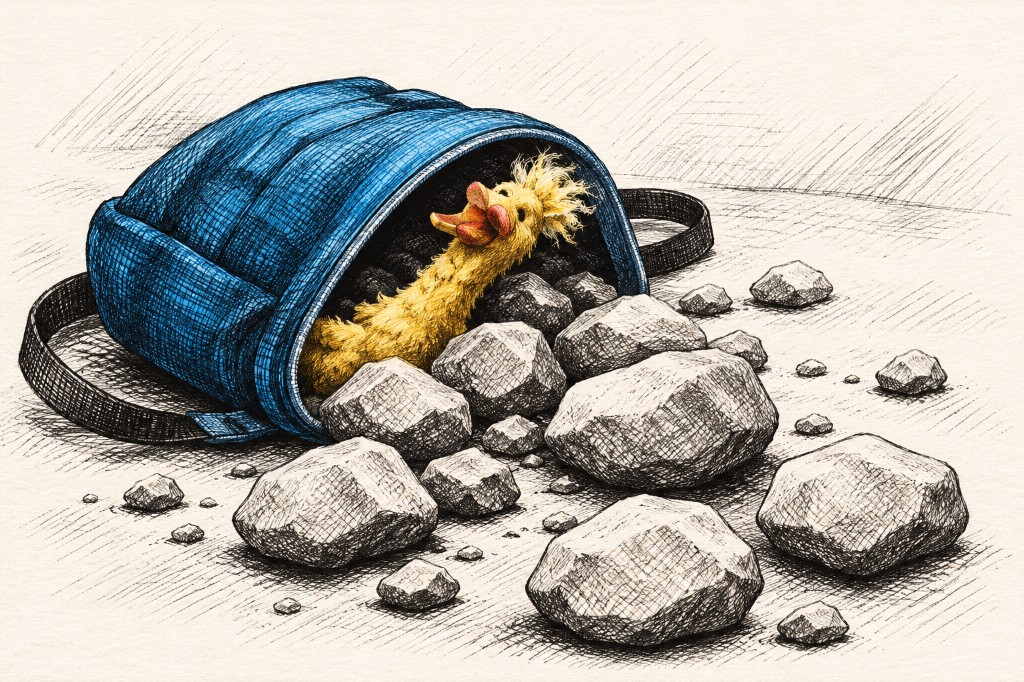
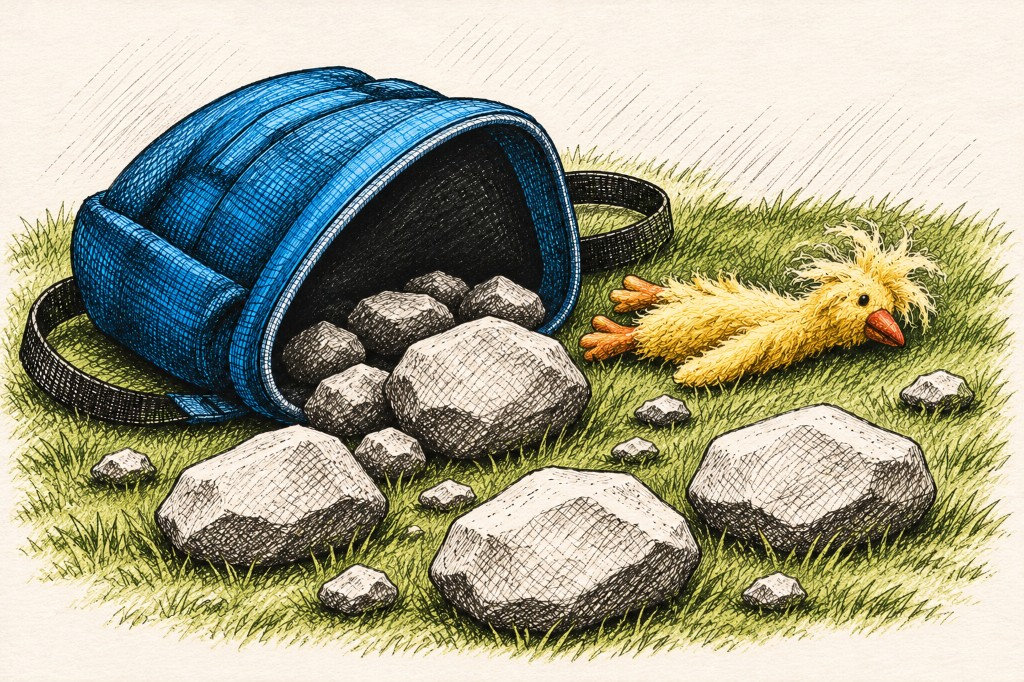
Use the new backpack art and a visible gold rock shimmer.
Swap in the grassy backpack illustration, remask the four big stones, and replace the invisible screen-blend idle state with a multiply gold wash so the rocks read as clickable.

diff --git a/index.html b/index.html
@@ -61,7 +61,7 @@
   <link rel="preconnect" href="https://fonts.gstatic.com" crossorigin />
   <link href="https://fonts.googleapis.com/css2?family=Playfair+Display:ital,wght@0,400;0,700;1,400;1,700&family=DM+Sans:wght@300;400;500&family=DM+Mono:wght@300;400&family=Space+Mono:wght@400;700&display=swap" rel="stylesheet" />
   <link rel="stylesheet" href="/css/lilbird-tokens.css?v=20260917k" />
-  <link rel="stylesheet" href="/css/lilbird-home.css?v=20261103g" />
+  <link rel="stylesheet" href="/css/lilbird-home.css?v=20261103h" />
   <link rel="stylesheet" href="/css/lilbird-chat.css?v=20260917k" />
   <!-- Google Tag Manager -->
   <script src="/lilbird-gtm-id.js"></script>
@@ -292,18 +292,18 @@
       The rocks in<br/><em>the backpack.</em>
     </h2>
     <div class="rocks-stage reveal reveal-delay-2" id="rocks-stage">
-      <img class="rocks-art" src="/images/home/backpack-rocks.jpg" alt="A sketched blue backpack on the floor with rocks and Big Bird spilling out" width="1024" height="682" loading="lazy" decoding="async" />
+      <img class="rocks-art" src="/images/home/backpack-rocks.jpg?v=20261103h" alt="A sketched blue backpack tipped on the grass with rocks and Big Bird spilling out" width="1024" height="682" loading="lazy" decoding="async" />
       <div class="hotspot-glows" aria-hidden="true">
-        <img class="hotspot-glow" data-glow="rock-1" src="/images/home/backpack-rocks.jpg" data-hit="/images/home/hotspots/rock-1-hit.png?v=20261103g" style="--hotspot-mask:url('/images/home/hotspots/rock-1-full.png?v=20261103g')" alt="" width="1024" height="682" decoding="async" />
-        <img class="hotspot-glow" data-glow="rock-2" src="/images/home/backpack-rocks.jpg" data-hit="/images/home/hotspots/rock-2-hit.png?v=20261103g" style="--hotspot-mask:url('/images/home/hotspots/rock-2-full.png?v=20261103g')" alt="" width="1024" height="682" decoding="async" />
-        <img class="hotspot-glow" data-glow="rock-3" src="/images/home/backpack-rocks.jpg" data-hit="/images/home/hotspots/rock-3-hit.png?v=20261103g" style="--hotspot-mask:url('/images/home/hotspots/rock-3-full.png?v=20261103g')" alt="" width="1024" height="682" decoding="async" />
-        <img class="hotspot-glow" data-glow="rock-4" src="/images/home/backpack-rocks.jpg" data-hit="/images/home/hotspots/rock-4-hit.png?v=20261103g" style="--hotspot-mask:url('/images/home/hotspots/rock-4-full.png?v=20261103g')" alt="" width="1024" height="682" decoding="async" />
+        <div class="hotspot-glow" data-glow="rock-1" data-hit="/images/home/hotspots/rock-1-hit.png?v=20261103h" style="--hotspot-mask:url('/images/home/hotspots/rock-1-full.png?v=20261103h')"></div>
+        <div class="hotspot-glow" data-glow="rock-2" data-hit="/images/home/hotspots/rock-2-hit.png?v=20261103h" style="--hotspot-mask:url('/images/home/hotspots/rock-2-full.png?v=20261103h')"></div>
+        <div class="hotspot-glow" data-glow="rock-3" data-hit="/images/home/hotspots/rock-3-hit.png?v=20261103h" style="--hotspot-mask:url('/images/home/hotspots/rock-3-full.png?v=20261103h')"></div>
+        <div class="hotspot-glow" data-glow="rock-4" data-hit="/images/home/hotspots/rock-4-hit.png?v=20261103h" style="--hotspot-mask:url('/images/home/hotspots/rock-4-full.png?v=20261103h')"></div>
       </div>
       <div class="hotspot-targets">
-        <button type="button" class="art-hotspot" data-glow="rock-1" data-phrase="I know something needs to change. I just can't name what." data-href="/articles/how-do-you-know-youre-ready-for-life-coaching.html" aria-label="Rock: I know something needs to change" style="left:23.3%;top:63.5%;width:17.7%;height:22.9%"></button>
-        <button type="button" class="art-hotspot" data-glow="rock-2" data-phrase="I keep having the same conversations with myself and going nowhere." data-href="/articles/stuck-between-two-paths.html" aria-label="Rock: same conversations going nowhere" style="left:47.4%;top:70.1%;width:20.2%;height:20.2%"></button>
-        <button type="button" class="art-hotspot" data-glow="rock-3" data-phrase="On paper, my life looks fine. From the inside, it doesn't feel like mine." data-href="/articles/on-paper-my-life-looks-fine.html" aria-label="Rock: on paper my life looks fine" style="left:50.4%;top:39%;width:20.6%;height:25.8%"></button>
-        <button type="button" class="art-hotspot" data-glow="rock-4" data-phrase="I'm not in crisis. I'm just stuck. And I'm tired of it." data-href="/articles/feeling-stuck-in-your-late-twenties.html" aria-label="Rock: not in crisis, just stuck" style="left:71.9%;top:62%;width:21.7%;height:25.8%"></button>
+        <button type="button" class="art-hotspot" data-glow="rock-1" data-phrase="I know something needs to change. I just can't name what." data-href="/articles/how-do-you-know-youre-ready-for-life-coaching.html" aria-label="Rock: I know something needs to change" style="left:16.2%;top:59.8%;width:24.5%;height:25.2%"></button>
+        <button type="button" class="art-hotspot" data-glow="rock-2" data-phrase="I keep having the same conversations with myself and going nowhere." data-href="/articles/stuck-between-two-paths.html" aria-label="Rock: same conversations going nowhere" style="left:42.2%;top:67.7%;width:26.6%;height:24.3%"></button>
+        <button type="button" class="art-hotspot" data-glow="rock-3" data-phrase="On paper, my life looks fine. From the inside, it doesn't feel like mine." data-href="/articles/on-paper-my-life-looks-fine.html" aria-label="Rock: on paper my life looks fine" style="left:37.2%;top:40.8%;width:25.5%;height:26.4%"></button>
+        <button type="button" class="art-hotspot" data-glow="rock-4" data-phrase="I'm not in crisis. I'm just stuck. And I'm tired of it." data-href="/articles/feeling-stuck-in-your-late-twenties.html" aria-label="Rock: not in crisis, just stuck" style="left:69.1%;top:55.7%;width:25.6%;height:29.3%"></button>
       </div>
       <div class="rock-pop" id="rock-pop" hidden>
         <p class="rock-pop-kicker">One of the rocks</p>
@@ -569,7 +569,7 @@
 <script src="/first-flight-booking.js"></script>
 <script src="/lb-chat-safe.js"></script>
 <script src="/js/lilbird-theme.js?v=20261103a"></script>
-<script src="/js/lilbird-home.js?v=20261103g"></script>
+<script src="/js/lilbird-home.js?v=20261103h"></script>
 <script src="/js/lilbird-chat.js"></script>
 </body>
 </html>

diff --git a/css/lilbird-home.css b/css/lilbird-home.css
@@ -1902,27 +1902,28 @@ footer, .site-footer {
   box-shadow: inset 0 0 0 2px rgba(245, 200, 66, 0.55);
 }
 .rocks-stage .hotspot-glow {
-  /* Idle shimmer so the stones read as clickable without copy */
-  mix-blend-mode: screen;
-  filter: brightness(1.28) saturate(1.15) contrast(1.02);
-  opacity: 0.42;
-  animation: rock-idle-shimmer 2.8s ease-in-out infinite;
+  /* Gold wash on the stone silhouette — visible on light parchment, unlike screen-blend */
+  background: radial-gradient(circle at 40% 35%, #FFE28A 0%, #F5C842 55%, #D4A017 100%);
+  mix-blend-mode: multiply;
+  filter: none;
+  opacity: 0.55;
+  animation: rock-idle-shimmer 2.6s ease-in-out infinite;
 }
 .rocks-stage .hotspot-glow:nth-child(1) { animation-delay: 0s; }
-.rocks-stage .hotspot-glow:nth-child(2) { animation-delay: 0.45s; }
-.rocks-stage .hotspot-glow:nth-child(3) { animation-delay: 0.9s; }
-.rocks-stage .hotspot-glow:nth-child(4) { animation-delay: 1.35s; }
+.rocks-stage .hotspot-glow:nth-child(2) { animation-delay: 0.4s; }
+.rocks-stage .hotspot-glow:nth-child(3) { animation-delay: 0.8s; }
+.rocks-stage .hotspot-glow:nth-child(4) { animation-delay: 1.2s; }
 .rocks-stage .hotspot-glow.is-lit {
-  opacity: 1;
-  filter: brightness(1.55) saturate(1.3) contrast(1.06);
+  opacity: 0.92;
+  background: radial-gradient(circle at 40% 35%, #FFF3C4 0%, #F5C842 45%, #E0B12A 100%);
   animation: none;
 }
 @keyframes rock-idle-shimmer {
-  0%, 100% { opacity: 0.28; }
-  50% { opacity: 0.55; }
+  0%, 100% { opacity: 0.38; }
+  50% { opacity: 0.72; }
 }
 @media (prefers-reduced-motion: reduce) {
-  .rocks-stage .hotspot-glow { animation: none; opacity: 0.4; }
+  .rocks-stage .hotspot-glow { animation: none; opacity: 0.55; }
 }
 .rocks-stage,
 .nest-tree-stage {

diff --git a/js/lilbird-home.js b/js/lilbird-home.js
@@ -471,11 +471,15 @@
       });
     });
 
-    // Warm canvases once images decode
+    // Warm hit canvases (works for <img> glow layers and <div> gold washes)
     Object.keys(glowMap).forEach(function (key) {
-      var img = glowMap[key].img;
-      if (img.complete) ensureHit(key);
-      else img.addEventListener('load', function () { ensureHit(key); });
+      var el = glowMap[key].img;
+      if (el.tagName === 'IMG') {
+        if (el.complete) ensureHit(key);
+        else el.addEventListener('load', function () { ensureHit(key); });
+      } else {
+        ensureHit(key);
+      }
     });
 
     return {
